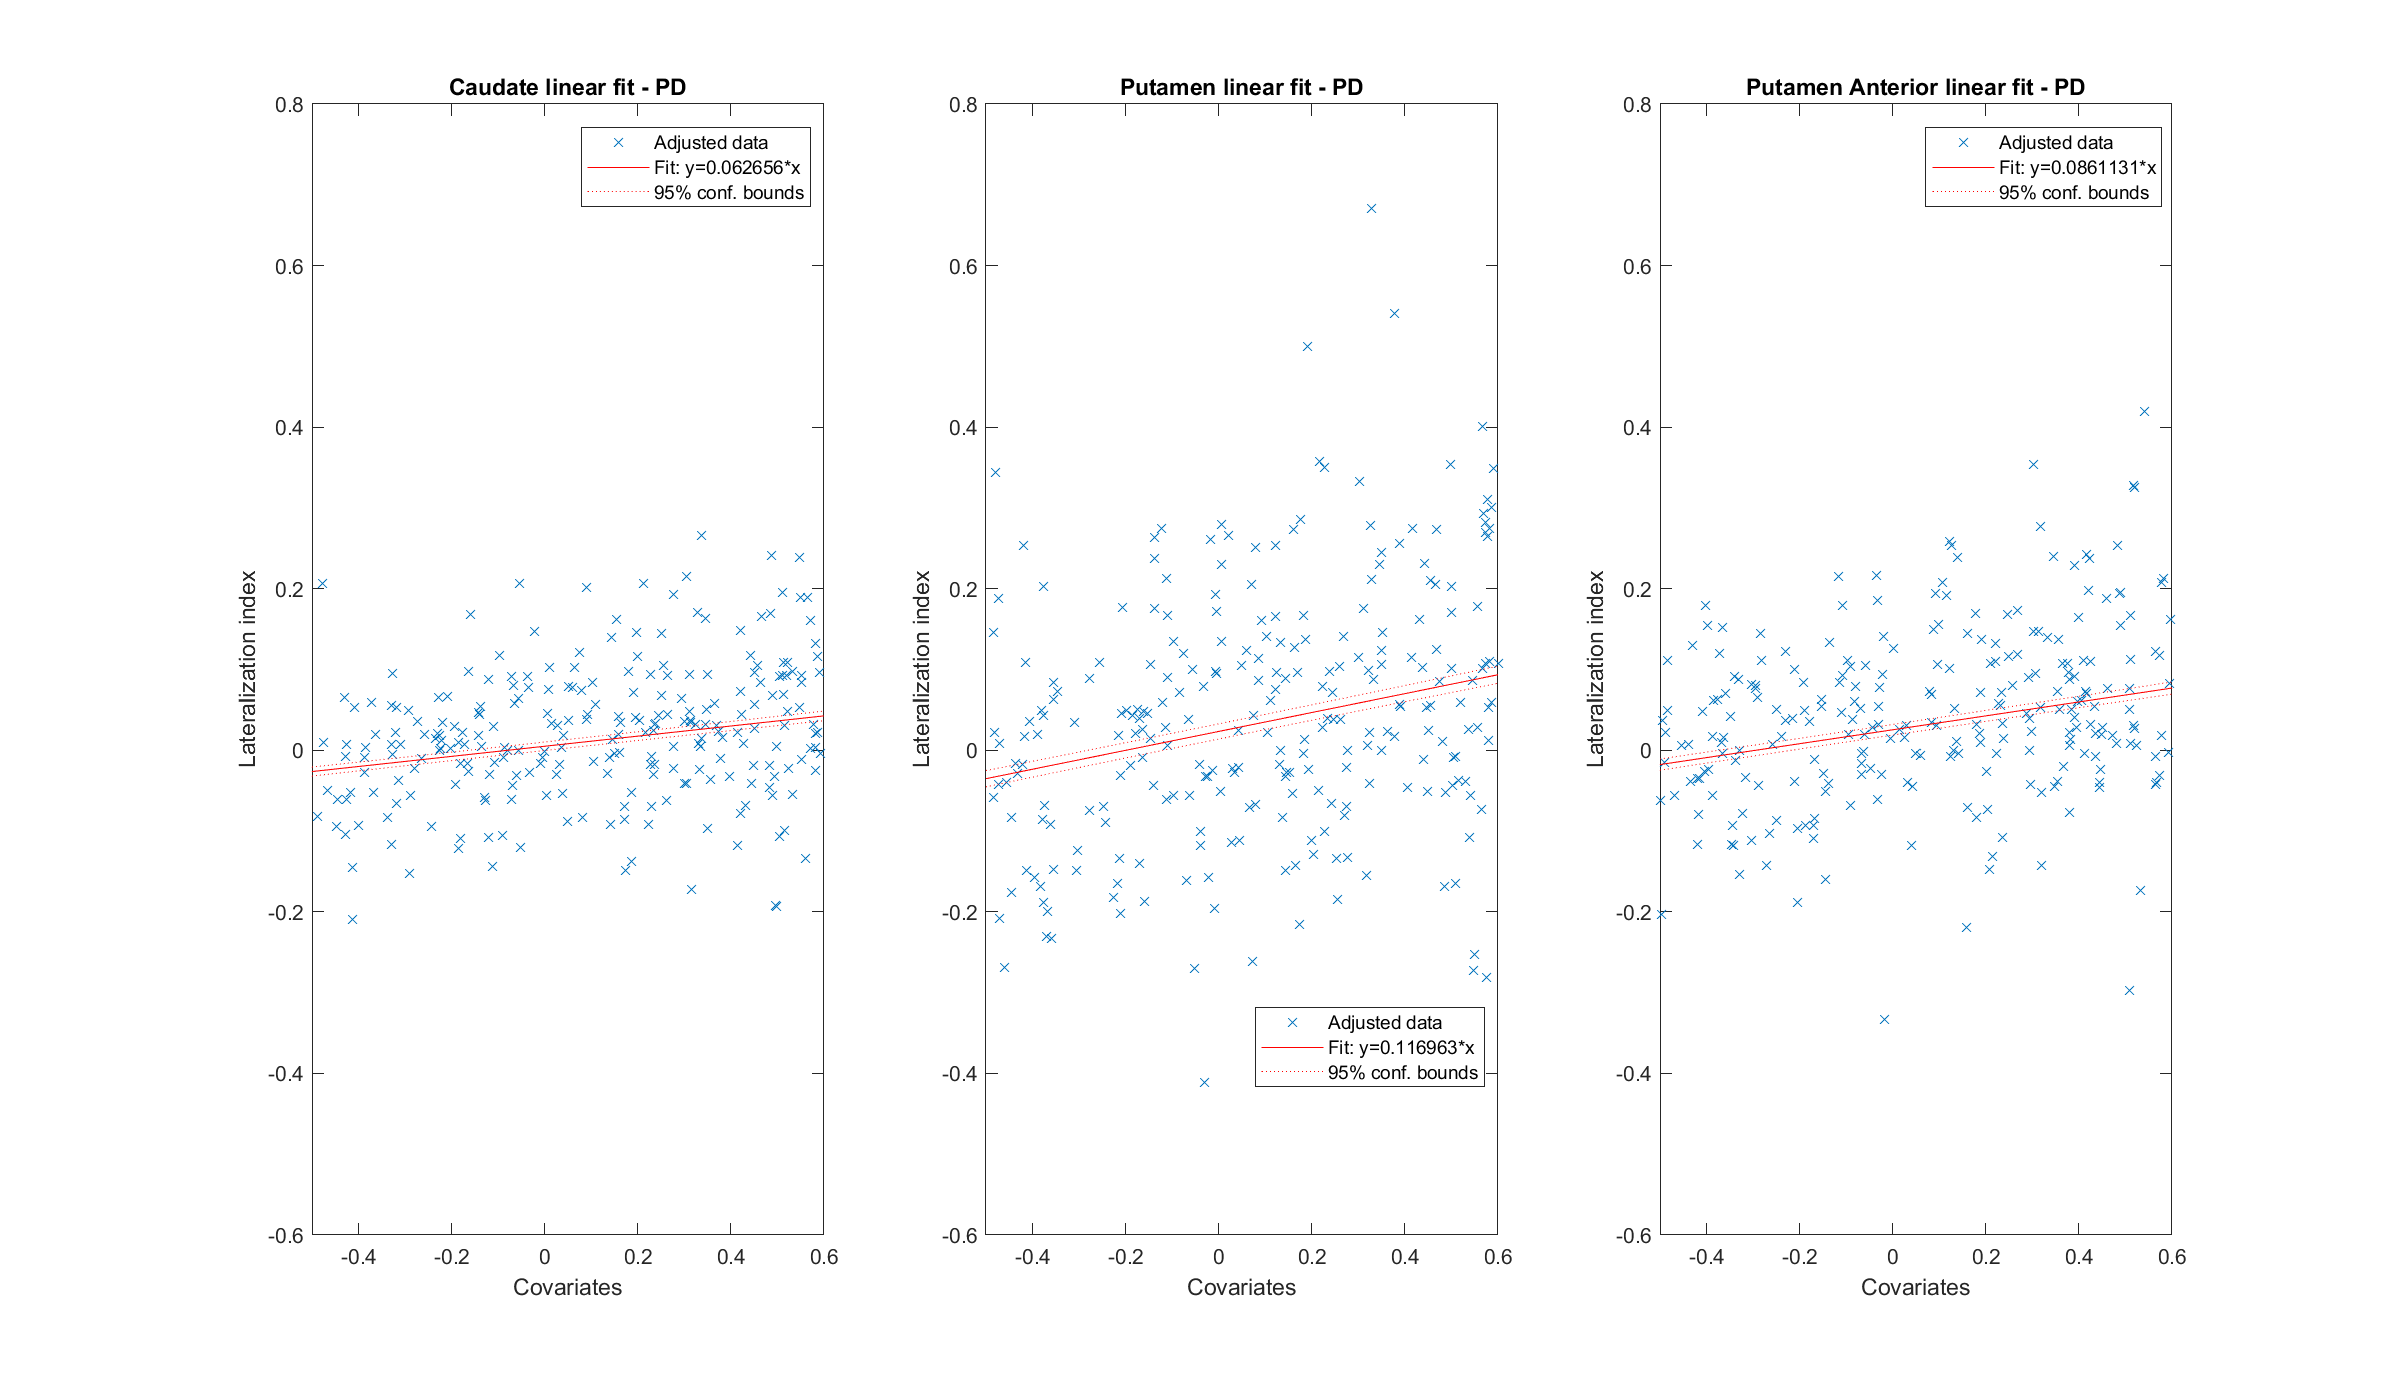
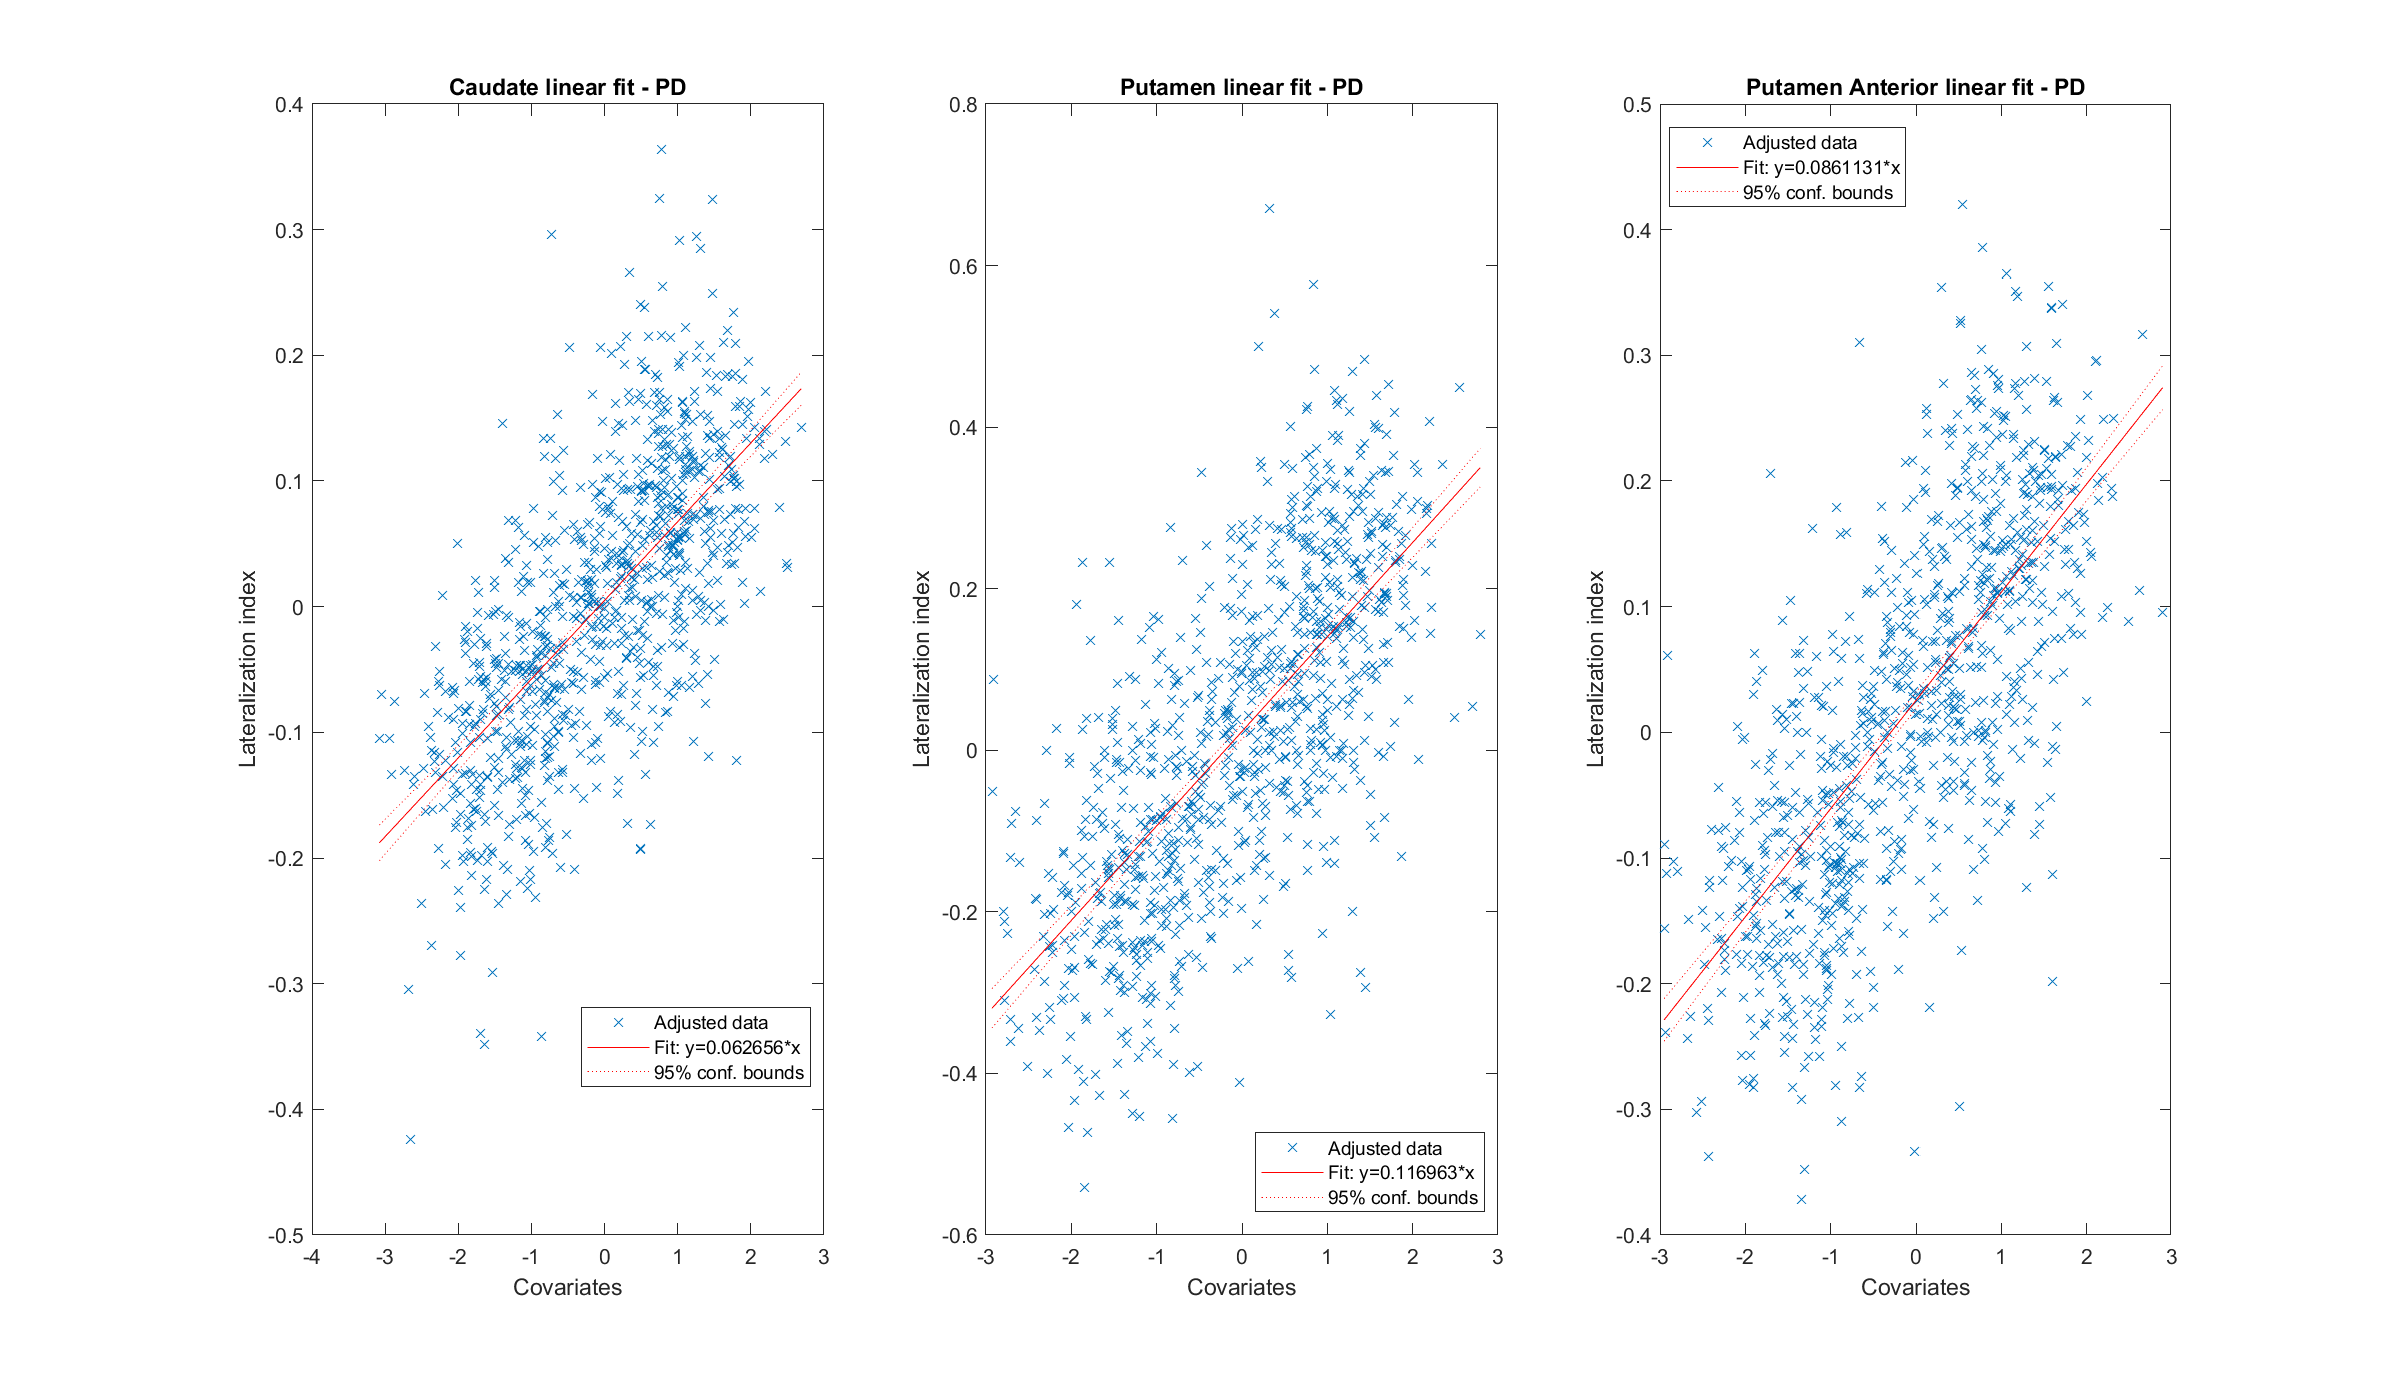
nuove figure

diff --git a/hm_biomarkers_new_version.m b/hm_biomarkers_new_version.m
@@ -680,8 +680,8 @@ set(gcf, 'Position', get(0, 'Screensize'));
 subplot(131)
 model_caud_pd = fitlm(covariates_pd_array,NOT_ABS.LATERALIZATION_coeff.CAUDATE.PD);
 plot(model_caud_pd)
-xlim([-0.5 0.6])
-ylim([-0.6 0.8])
+% xlim([-0.5 0.6])
+% ylim([-0.6 0.8])
 xlabel('Covariates')
 ylabel('Lateralization index')
 title('Caudate linear fit - PD')
@@ -689,8 +689,8 @@ title('Caudate linear fit - PD')
 subplot(132)
 model_put_pd = fitlm(covariates_pd_array,NOT_ABS.LATERALIZATION_coeff.PUTAMEN.PD);
 plot(model_put_pd)
-xlim([-0.5 0.6])
-ylim([-0.6 0.8])
+% xlim([-0.5 0.6])
+% ylim([-0.6 0.8])
 xlabel('Covariates')
 ylabel('Lateralization index')
 title('Putamen linear fit - PD')
@@ -698,8 +698,8 @@ title('Putamen linear fit - PD')
 subplot(133)
 model_put_ant_pd = fitlm(covariates_pd_array,NOT_ABS.LATERALIZATION_coeff.PUTAMEN_ANT.PD);
 plot(model_put_ant_pd)
-xlim([-0.5 0.6])
-ylim([-0.6 0.8])
+% xlim([-0.5 0.6])
+% ylim([-0.6 0.8])
 xlabel('Covariates')
 ylabel('Lateralization index')
 title('Putamen Anterior linear fit - PD')
@@ -732,7 +732,7 @@ model_sintomi_lat_caud = fitlm(sintomi_lat,NOT_ABS.LATERALIZATION_coeff.CAUDATE.
 model_sintomi_lat_put = fitlm(sintomi_lat,NOT_ABS.LATERALIZATION_coeff.PUTAMEN.PD);
 model_sintomi_lat_put_ant = fitlm(sintomi_lat,NOT_ABS.LATERALIZATION_coeff.PUTAMEN_ANT.PD);
 
-figure
+figure(27)
 subplot(131)
 plot(model_sintomi_lat_caud)
 subplot(132)
@@ -740,6 +740,7 @@ plot(model_sintomi_lat_put)
 subplot(133)
 plot(model_sintomi_lat_put_ant)
 
+saveas(figure(27), "fit asimmetry index.png", "png")
 
 
 
